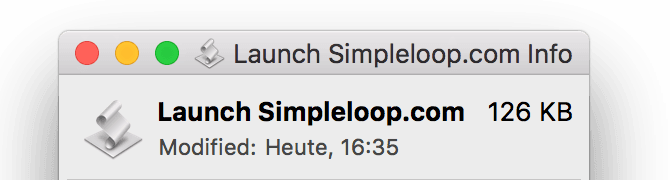
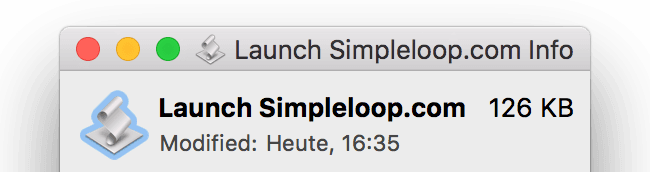
improves README.

Changed region(s): [[0.0615, 0.4651, 0.9231, 1.0], [0.0615, 0.2035, 0.9231, 0.436], [0.0923, 0.1453, 0.9231, 0.1744]]

diff --git a/README.md b/README.md
@@ -80,7 +80,8 @@ to me in the mid 90s:
 1. Open up any picture you want using Preview.
 2. Select all and copy.
 3. Locate your Launcher's `.app` and open up the Information window (`CMD+i`).
-4. Click on the icon in the top right. It should now have a glow around it.
+4. Click on the bigger icon in the top right. It should now have a glow around
+   it:
    ![](example_custom_icon_selected.png)
 5. Paste! And `boom clap raise your fist`:
    ![](example_custom_icon.png)
